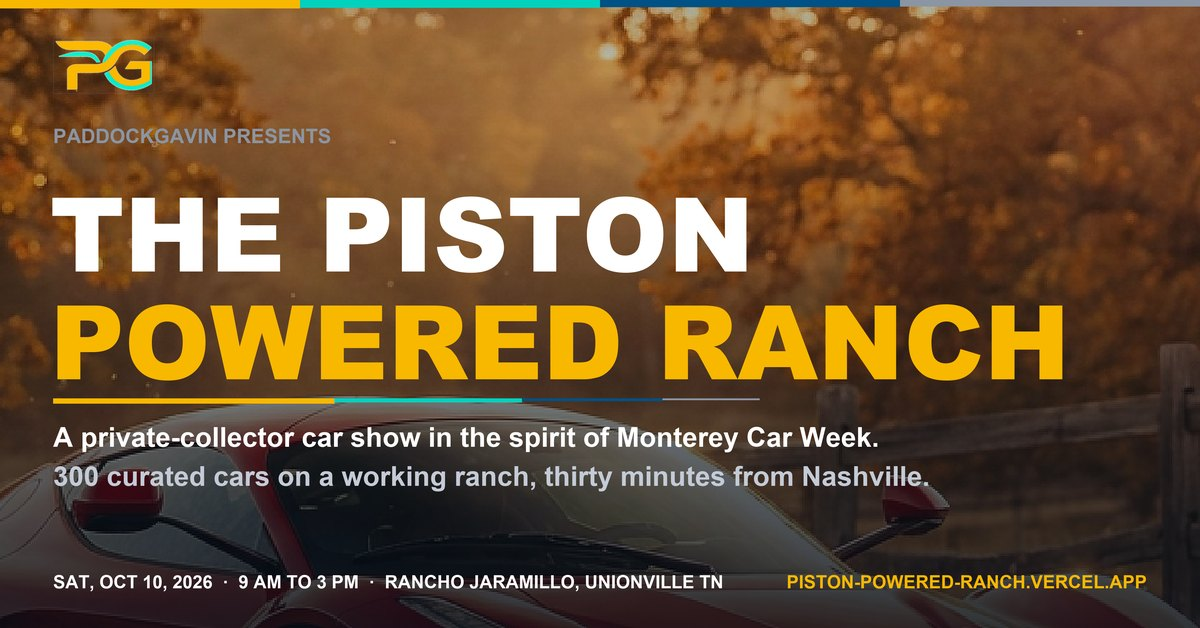
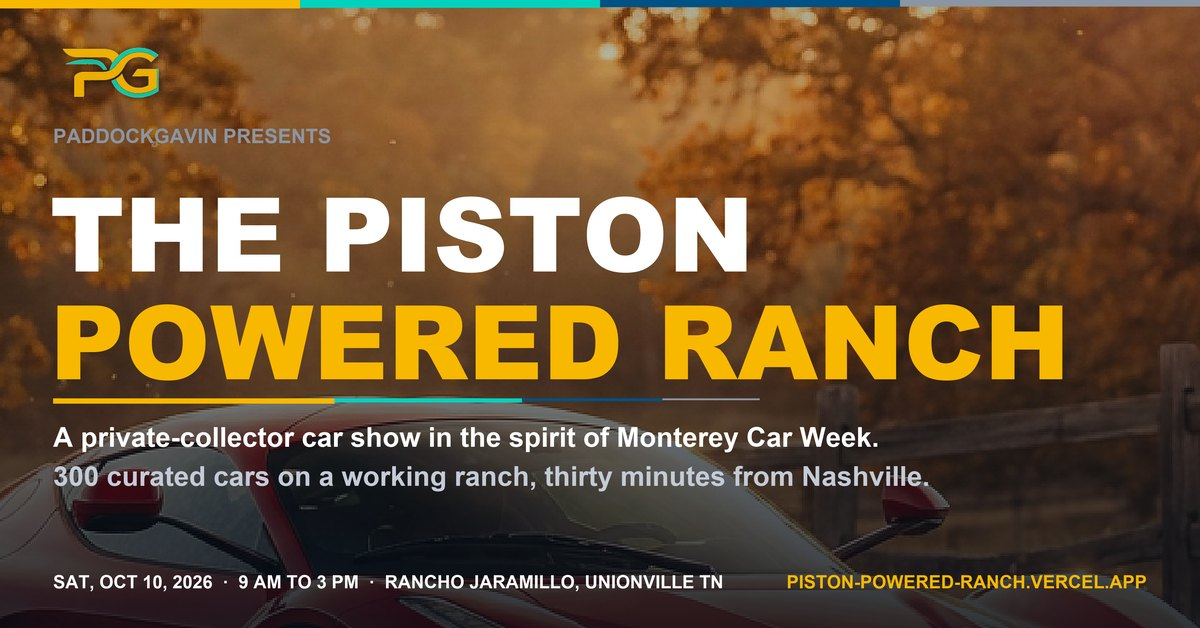
fix(brand): pad the mark so its shadow fades inside the canvas
The shipped mark's drop shadow was clipped at the canvas edge, leaving
alpha 36 on every border pixel, which rendered as a faint box around the
logo on flat backgrounds. Rebuilt with 22px padding: edge alpha is now 0
on all four sides. Favicons, the collateral logo download and the OG
card regenerated from the clean mark.

Changed region(s): [[0.0308, 0.0605, 0.1542, 0.1815]]

diff --git a/collateral/index.html b/collateral/index.html
@@ -459,7 +459,7 @@
         <section class="group" data-group="Brand">
           <h2>Brand</h2>
           <div class="grid">
-            <article class="card" data-aud="community" data-name="pg logo the paddockgavin mark on a transparent background. drops onto anything."><button class="thumb sq" data-full="files/PPR_Logo_PG_transparent.png" aria-label="Preview PG Logo"><img src="files/PPR_Logo_PG_transparent.png" alt="" decoding="async" /></button><div class="body"><h3>PG Logo</h3><p>The PaddockGavin mark on a transparent background. Drops onto anything.</p><div class="btns"><a class="dl image" href="files/PPR_Logo_PG_transparent.png" download title="Image, drops into any chat"><span class="k">PNG</span><span class="s">52 KB</span></a></div><button class="copy" data-file="files/PPR_Logo_PG_transparent.png">Copy link</button></div></article>
+            <article class="card" data-aud="community" data-name="pg logo the paddockgavin mark on a transparent background. drops onto anything."><button class="thumb sq" data-full="files/PPR_Logo_PG_transparent.png" aria-label="Preview PG Logo"><img src="files/PPR_Logo_PG_transparent.png" alt="" decoding="async" /></button><div class="body"><h3>PG Logo</h3><p>The PaddockGavin mark on a transparent background. Drops onto anything.</p><div class="btns"><a class="dl image" href="files/PPR_Logo_PG_transparent.png" download title="Image, drops into any chat"><span class="k">PNG</span><span class="s">65 KB</span></a></div><button class="copy" data-file="files/PPR_Logo_PG_transparent.png">Copy link</button></div></article>
           </div>
         </section>
         <section class="group" data-group="For the ranch">
